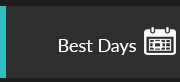
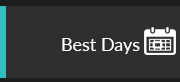
Interface Modifications/Improvements

Changed region(s): [[0.3056, 0.4634, 0.7778, 0.6829]]

diff --git a/src/main/java/ca/uwo/csd/cs2212/team13/InterfaceView.java b/src/main/java/ca/uwo/csd/cs2212/team13/InterfaceView.java
@@ -48,6 +48,7 @@ import java.awt.GridBagLayout;
 import java.awt.GridBagConstraints;
 import java.util.Date;
 import javax.swing.Icon;
+import java.awt.Point;
 
 
 
@@ -297,6 +298,8 @@ public class InterfaceView {
 		frame.getContentPane().add(MenuBar);
 
 		btnDailyDashboard = new JButton("");
+		btnDailyDashboard.setRolloverSelectedIcon(new ImageIcon("/Users/Step/courses/cs2212/team13/src/main/resources/DDselect.png"));
+		btnDailyDashboard.setRolloverIcon(new ImageIcon("/Users/Step/courses/cs2212/team13/src/main/resources/DDselect.png"));
 		btnDailyDashboard.setSelectedIcon(new ImageIcon("src/main/resources/DDselect.png"));
 		btnDailyDashboard.setIcon(new ImageIcon("src/main/resources/DailyDashboard.png"));
 		btnDailyDashboard.setMargin(new Insets(0, 0, 0, 0));
@@ -306,6 +309,8 @@ public class InterfaceView {
 		btnDailyDashboard.setSelected(true);
 
 		btnBestDays = new JButton("");
+		btnBestDays.setRolloverSelectedIcon(new ImageIcon("/Users/Step/courses/cs2212/team13/src/main/resources/BestDaysSelect.png"));
+		btnBestDays.setRolloverIcon(new ImageIcon("/Users/Step/courses/cs2212/team13/src/main/resources/BestDaysSelect.png"));
 		btnBestDays.setSelectedIcon(new ImageIcon("src/main/resources/BestDaysSelect.png"));
 		btnBestDays.setIcon(new ImageIcon("src/main/resources/BestDays.png"));
 		btnBestDays.setMargin(new Insets(0, 0, 0, 0));
@@ -314,6 +319,8 @@ public class InterfaceView {
 		MenuBar.add(btnBestDays);
 
 		btnDailyGoals = new JButton("");
+		btnDailyGoals.setRolloverSelectedIcon(new ImageIcon("/Users/Step/courses/cs2212/team13/src/main/resources/DailyGoalsSelected.png"));
+		btnDailyGoals.setRolloverIcon(new ImageIcon("/Users/Step/courses/cs2212/team13/src/main/resources/DailyGoalsSelected.png"));
 		btnDailyGoals.setSelectedIcon(new ImageIcon("src/main/resources/DailyGoalsSelected.png"));
 		btnDailyGoals.setIcon(new ImageIcon("src/main/resources/DailyGoals.png"));
 		btnDailyGoals.setMargin(new Insets(0, 0, 0, 0));
@@ -322,6 +329,8 @@ public class InterfaceView {
 		MenuBar.add(btnDailyGoals);
 
 		btnLifetimeTotals = new JButton("");
+		btnLifetimeTotals.setRolloverSelectedIcon(new ImageIcon("/Users/Step/courses/cs2212/team13/src/main/resources/lifetimeTotalsSelect.png"));
+		btnLifetimeTotals.setRolloverIcon(new ImageIcon("/Users/Step/courses/cs2212/team13/src/main/resources/lifetimeTotalsSelect.png"));
 		btnLifetimeTotals.setSelectedIcon(new ImageIcon("src/main/resources/lifetimeTotalsSelect.png"));
 		btnLifetimeTotals.setIcon(new ImageIcon("src/main/resources/lifetime totals.png"));
 		btnLifetimeTotals.setMargin(new Insets(0, 0, 0, 0));
@@ -330,6 +339,8 @@ public class InterfaceView {
 		MenuBar.add(btnLifetimeTotals);
 
 		btnAccolades = new JButton("");
+		btnAccolades.setRolloverSelectedIcon(new ImageIcon("/Users/Step/courses/cs2212/team13/src/main/resources/accoladeSelect.png"));
+		btnAccolades.setRolloverIcon(new ImageIcon("/Users/Step/courses/cs2212/team13/src/main/resources/accoladeSelect.png"));
 		btnAccolades.setSelectedIcon(new ImageIcon("src/main/resources/accoladeSelect.png"));
 		btnAccolades.setIcon(new ImageIcon("src/main/resources/accolades.png"));
 		btnAccolades.setMargin(new Insets(0, 0, 0, 0));
@@ -338,6 +349,8 @@ public class InterfaceView {
 		MenuBar.add(btnAccolades);
 
 		btnTimeSeries = new JButton("");
+		btnTimeSeries.setRolloverSelectedIcon(new ImageIcon("/Users/Step/courses/cs2212/team13/src/main/resources/timeseriesSelected.png"));
+		btnTimeSeries.setRolloverIcon(new ImageIcon("/Users/Step/courses/cs2212/team13/src/main/resources/timeseriesSelected.png"));
 		btnTimeSeries.setSelectedIcon(new ImageIcon("src/main/resources/timeseriesSelected.png"));
 		btnTimeSeries.setMargin(new Insets(0, 0, 0, 0));
 		btnTimeSeries.setIcon(new ImageIcon("src/main/resources/timeseriesbutton.png"));
@@ -346,6 +359,8 @@ public class InterfaceView {
 		MenuBar.add(btnTimeSeries);
 
 		btnHeartRateZones = new JButton("");
+		btnHeartRateZones.setRolloverSelectedIcon(new ImageIcon("/Users/Step/courses/cs2212/team13/src/main/resources/HRZ-select.png"));
+		btnHeartRateZones.setRolloverIcon(new ImageIcon("/Users/Step/courses/cs2212/team13/src/main/resources/HRZ-select.png"));
 		btnHeartRateZones.setSelectedIcon(new ImageIcon("src/main/resources/HRZ-select.png"));
 		btnHeartRateZones.setIcon(new ImageIcon("src/main/resources/HRZ.png"));
 		btnHeartRateZones.setMargin(new Insets(0, 0, 0, 0));
@@ -677,10 +692,18 @@ public class InterfaceView {
 		 * Layout customization, or "settings", menu
 		 */
 		JMenuBar menuBar = new JMenuBar();
-		menuBar.setBounds(40, 46, 70, 26);
+		menuBar.setBorder(null);
+		menuBar.setBorderPainted(false);
+		menuBar.setBackground(Color.BLACK);
+		menuBar.setBounds(40, 10, 50, 50);
 		panelDashboardView.add(menuBar);
 
-		JMenu mnNewMenu = new JMenu("Settings");
+		JMenu mnNewMenu = new JMenu("");
+		mnNewMenu.setBorder(null);
+		mnNewMenu.setBackground(Color.BLACK);
+		mnNewMenu.setIconTextGap(0);
+		//mnNewMenu.setHorizontalAlignment(SwingConstants.CENTER);
+		mnNewMenu.setIcon(new ImageIcon("/Users/Step/courses/cs2212/team13/src/main/resources/settings.png"));
 		menuBar.add(mnNewMenu);
 
 		radioSedMin = new JRadioButton("Sedentary Minutes");
@@ -945,7 +968,7 @@ public class InterfaceView {
 		UtilDateModel utilModel = new UtilDateModel(currentDate);
 		JDatePanelImpl datePanel = new JDatePanelImpl(utilModel);
 		datePicker = new JDatePickerImpl(datePanel);
-		datePicker.setBounds(278,107,163,26);
+		datePicker.setBounds(278,105,170,30);
 		datePicker.addActionListener(new ActionListener() {
 			public void actionPerformed(ActionEvent e) {
 				CalendarToAPI();
@@ -959,7 +982,7 @@ public class InterfaceView {
 		 */
 		JButton btnPrevDate = new JButton("Prev");
 		btnPrevDate.setOpaque(true);
-		btnPrevDate.setBounds(217, 108, 49, 25);
+		btnPrevDate.setBounds(217, 105, 50, 30);
 		panelDashboardView.add(btnPrevDate);
 		btnPrevDate.addActionListener(new ActionListener() {
 			public void actionPerformed(ActionEvent e) {
@@ -973,7 +996,7 @@ public class InterfaceView {
 		 */
 		JButton btnNextDate = new JButton("Next");
 		btnNextDate.setOpaque(true);
-		btnNextDate.setBounds(453, 108, 49, 25);
+		btnNextDate.setBounds(453, 105, 50, 30);
 		panelDashboardView.add(btnNextDate);
 		btnNextDate.addActionListener(new ActionListener() {
 			public void actionPerformed(ActionEvent e) {
@@ -1031,8 +1054,9 @@ public class InterfaceView {
 		/////////////////////////////////////////////////////////////////
 		/////KEEP THIS THO.//////////////////////////////////////////////
 
-		btnRefresh = new JButton("Refresh");
-		btnRefresh.setBounds(589, 46, 91, 29);
+		btnRefresh = new JButton("");
+		btnRefresh.setIcon(new ImageIcon("/Users/Step/courses/cs2212/team13/src/main/resources/refreshButton.png"));
+		btnRefresh.setBounds(630, 10, 50, 50);
 		panelDashboardView.add(btnRefresh);
 		repanel(radioCounter());
 		////////////////////////////////////////////////////////////////////
@@ -1175,75 +1199,60 @@ public class InterfaceView {
 	 * This method implements the Accolades screen.
 	 */
 	private void accoladesView() {
-		JLabel lblAccolades = new JLabel("Accolades");
-		lblAccolades.setHorizontalAlignment(SwingConstants.CENTER);
-		lblAccolades.setFont(new Font("Lucida Grande", Font.PLAIN, 22));
-		lblAccolades.setBounds(0, 0, 720, 32);
-		panelAccoladesView.add(lblAccolades);
-
-		JCheckBox chckbxTask = new JCheckBox("Task #1:");
-		chckbxTask.setFont(new Font("Lucida Grande", Font.PLAIN, 18));
-		chckbxTask.setBounds(10, 60, 235, 23);
-		panelAccoladesView.add(chckbxTask);
-
-		JCheckBox chckbxTask_1 = new JCheckBox("Task #2:");
-		chckbxTask_1.setFont(new Font("Lucida Grande", Font.PLAIN, 18));
-		chckbxTask_1.setBounds(10, 95, 294, 23);
-		panelAccoladesView.add(chckbxTask_1);
-
-		JCheckBox chckbxTask_2 = new JCheckBox("Task #3:");
-		chckbxTask_2.setFont(new Font("Lucida Grande", Font.PLAIN, 18));
-		chckbxTask_2.setBounds(10, 130, 294, 23);
-		panelAccoladesView.add(chckbxTask_2);
-
-		JCheckBox chckbxTask_3 = new JCheckBox("Task #4:");
-		chckbxTask_3.setFont(new Font("Lucida Grande", Font.PLAIN, 18));
-		chckbxTask_3.setBounds(10, 165, 294, 23);
-		panelAccoladesView.add(chckbxTask_3);
-
-		JCheckBox chckbxTask_4 = new JCheckBox("Task #5:");
-		chckbxTask_4.setFont(new Font("Lucida Grande", Font.PLAIN, 18));
-		chckbxTask_4.setBounds(10, 200, 294, 23);
-		panelAccoladesView.add(chckbxTask_4);
 
 		JLabel lblDscp1 = new JLabel("<description>");
+		lblDscp1.setForeground(Color.WHITE);
 		lblDscp1.setHorizontalAlignment(SwingConstants.TRAILING);
 		lblDscp1.setFont(new Font("Lucida Grande", Font.PLAIN, 18));
-		lblDscp1.setBounds(257, 60, 150, 23);
+		lblDscp1.setBounds(290, 103, 369, 23);
 		panelAccoladesView.add(lblDscp1);
 
 		JLabel lblDscp2 = new JLabel("<description>");
+		lblDscp2.setForeground(Color.WHITE);
 		lblDscp2.setHorizontalAlignment(SwingConstants.TRAILING);
 		lblDscp2.setFont(new Font("Lucida Grande", Font.PLAIN, 18));
-		lblDscp2.setBounds(257, 95, 150, 23);
+		lblDscp2.setBounds(290, 138, 369, 23);
 		panelAccoladesView.add(lblDscp2);
 
 		JLabel lblDscp3 = new JLabel("<description>");
+		lblDscp3.setForeground(Color.WHITE);
 		lblDscp3.setHorizontalAlignment(SwingConstants.TRAILING);
 		lblDscp3.setFont(new Font("Lucida Grande", Font.PLAIN, 18));
-		lblDscp3.setBounds(257, 130, 150, 23);
+		lblDscp3.setBounds(290, 173, 369, 23);
 		panelAccoladesView.add(lblDscp3);
 
 		JLabel lblDscp4 = new JLabel("<description>");
+		lblDscp4.setForeground(Color.WHITE);
 		lblDscp4.setHorizontalAlignment(SwingConstants.TRAILING);
 		lblDscp4.setFont(new Font("Lucida Grande", Font.PLAIN, 18));
-		lblDscp4.setBounds(257, 165, 150, 23);
+		lblDscp4.setBounds(290, 208, 369, 23);
 		panelAccoladesView.add(lblDscp4);
 
 		JLabel lblDscp5 = new JLabel("<description>");
+		lblDscp5.setForeground(Color.WHITE);
 		lblDscp5.setHorizontalAlignment(SwingConstants.TRAILING);
 		lblDscp5.setFont(new Font("Lucida Grande", Font.PLAIN, 18));
-		lblDscp5.setBounds(257, 200, 150, 23);
+		lblDscp5.setBounds(290, 243, 369, 23);
 		panelAccoladesView.add(lblDscp5);
 
 		JLabel lblLastUpdated = new JLabel("Last Updated:");
+		lblLastUpdated.setForeground(Color.WHITE);
 		lblLastUpdated.setBounds(410, 540, 90, 16);
 		panelAccoladesView.add(lblLastUpdated);
 
 		lblLastUpdatedAccolades = new JLabel();
+		lblLastUpdatedAccolades.setForeground(Color.WHITE);
 		lblLastUpdatedAccolades.setBounds(486, 540, 222, 16);
 		lblLastUpdatedAccolades.setHorizontalAlignment(SwingConstants.TRAILING);
 		panelAccoladesView.add(lblLastUpdatedAccolades);
+		
+		/**
+		 * Background Image Implementation
+		 */
+		JLabel lblPic = new JLabel(new ImageIcon("/Users/Step/courses/cs2212/team13/src/main/resources/ACCdash.png"));
+		lblPic.setBounds(0, 0, 720, 574);
+		panelAccoladesView.add(lblPic);
+	
 
 	}
 
@@ -1325,83 +1334,95 @@ public class InterfaceView {
 	 * This method implements the Daily Goals screen.
 	 */
 	private void dailygoalsView() {
-		JLabel lblDailyGoals = new JLabel("Daily Goals");
-		lblDailyGoals.setForeground(Color.BLACK);
-		lblDailyGoals.setBackground(Color.GRAY);
-		lblDailyGoals.setHorizontalAlignment(SwingConstants.CENTER);
-		lblDailyGoals.setFont(new Font("Lucida Grande", Font.PLAIN, 22));
-		lblDailyGoals.setBounds(0, 0, 720, 28);
-		panelDailyGoalsView.add(lblDailyGoals);
-
-		JLabel lblActiveMin = new JLabel("Active Minutes:");
-		lblActiveMin.setBounds(16, 160, 120, 16);
-		panelDailyGoalsView.add(lblActiveMin);
-
-		JLabel lblSteps = new JLabel("Steps:");
-		lblSteps.setBounds(16, 52, 61, 16);
-		panelDailyGoalsView.add(lblSteps);
-
-		JLabel lblDistance = new JLabel("Distance:");
-		lblDistance.setBounds(16, 80, 61, 16);
-		panelDailyGoalsView.add(lblDistance);
-
-		JLabel lblCalories = new JLabel("Calories:");
-		lblCalories.setBounds(16, 108, 61, 16);
-		panelDailyGoalsView.add(lblCalories);
-
-		JLabel lblFloors = new JLabel("Floors:");
-		lblFloors.setBounds(16, 136, 61, 16);
-		panelDailyGoalsView.add(lblFloors);
 
 		lblActiveMinGoal = new JLabel();
-		lblActiveMinGoal.setBounds(150, 160, 61, 16);
+		lblActiveMinGoal.setFont(new Font("Lucida Grande", Font.PLAIN, 28));
+		lblActiveMinGoal.setHorizontalAlignment(SwingConstants.CENTER);
+		lblActiveMinGoal.setForeground(Color.WHITE);
+		lblActiveMinGoal.setBounds(325, 454, 232, 46);
 
 		panelDailyGoalsView.add(lblActiveMinGoal);
 
 		lblStepsGoal = new JLabel();
-		lblStepsGoal.setBounds(150, 52, 61, 16);
+		lblStepsGoal.setFont(new Font("Lucida Grande", Font.PLAIN, 28));
+		lblStepsGoal.setHorizontalAlignment(SwingConstants.CENTER);
+		lblStepsGoal.setForeground(Color.WHITE);
+		lblStepsGoal.setBounds(325, 317, 232, 46);
 		panelDailyGoalsView.add(lblStepsGoal);
 
 		lblDistanceGoal = new JLabel();
-		lblDistanceGoal.setBounds(150, 80, 61, 16);
+		lblDistanceGoal.setFont(new Font("Lucida Grande", Font.PLAIN, 28));
+		lblDistanceGoal.setHorizontalAlignment(SwingConstants.CENTER);
+		lblDistanceGoal.setForeground(Color.WHITE);
+		lblDistanceGoal.setBounds(325, 180, 232, 46);
 		panelDailyGoalsView.add(lblDistanceGoal);
 
 		lblCaloriesGoal = new JLabel();
-		lblCaloriesGoal.setBounds(150, 108, 61, 16);
+		lblCaloriesGoal.setFont(new Font("Lucida Grande", Font.PLAIN, 28));
+		lblCaloriesGoal.setHorizontalAlignment(SwingConstants.CENTER);
+		lblCaloriesGoal.setForeground(Color.WHITE);
+		lblCaloriesGoal.setBounds(325, 385, 232, 46);
 		panelDailyGoalsView.add(lblCaloriesGoal);
 
 		lblFloorsGoal = new JLabel();
-		lblFloorsGoal.setBounds(150, 136, 61, 16);
+		lblFloorsGoal.setFont(new Font("Lucida Grande", Font.PLAIN, 28));
+		lblFloorsGoal.setHorizontalAlignment(SwingConstants.CENTER);
+		lblFloorsGoal.setForeground(Color.WHITE);
+		lblFloorsGoal.setBounds(325, 248, 232, 46);
 		panelDailyGoalsView.add(lblFloorsGoal);
 
 		lblStepsCompare = new JLabel();
-		lblStepsCompare.setBounds(336, 52, 61, 16);
+		lblStepsCompare.setFont(new Font("Lucida Grande", Font.PLAIN, 24));
+		lblStepsCompare.setHorizontalAlignment(SwingConstants.CENTER);
+		lblStepsCompare.setForeground(Color.WHITE);
+		lblStepsCompare.setBounds(563, 317, 96, 46);
 		panelDailyGoalsView.add(lblStepsCompare);
 
 		lblDistanceCompare = new JLabel();
-		lblDistanceCompare.setBounds(336, 80, 61, 16);
+		lblDistanceCompare.setFont(new Font("Lucida Grande", Font.PLAIN, 24));
+		lblDistanceCompare.setHorizontalAlignment(SwingConstants.CENTER);
+		lblDistanceCompare.setForeground(Color.WHITE);
+		lblDistanceCompare.setBounds(563, 180, 96, 46);
 		panelDailyGoalsView.add(lblDistanceCompare);
 
 		lblCaloriesCompare = new JLabel();
-		lblCaloriesCompare.setBounds(336, 108, 61, 16);
+		lblCaloriesCompare.setFont(new Font("Lucida Grande", Font.PLAIN, 24));
+		lblCaloriesCompare.setHorizontalAlignment(SwingConstants.CENTER);
+		lblCaloriesCompare.setForeground(Color.WHITE);
+		lblCaloriesCompare.setBounds(563, 385, 96, 46);
 		panelDailyGoalsView.add(lblCaloriesCompare);
 
 		lblFloorsCompare = new JLabel();
-		lblFloorsCompare.setBounds(336, 136, 61, 16);
+		lblFloorsCompare.setFont(new Font("Lucida Grande", Font.PLAIN, 24));
+		lblFloorsCompare.setHorizontalAlignment(SwingConstants.CENTER);
+		lblFloorsCompare.setForeground(Color.WHITE);
+		lblFloorsCompare.setBounds(563, 248, 96, 46);
 		panelDailyGoalsView.add(lblFloorsCompare);
 
 		lblActiveMinCompare = new JLabel();
-		lblActiveMinCompare.setBounds(336, 160, 61, 16);
+		lblActiveMinCompare.setFont(new Font("Lucida Grande", Font.PLAIN, 24));
+		lblActiveMinCompare.setHorizontalAlignment(SwingConstants.CENTER);
+		lblActiveMinCompare.setForeground(Color.WHITE);
+		lblActiveMinCompare.setBounds(563, 454, 96, 46);
 		panelDailyGoalsView.add(lblActiveMinCompare);
 
 		JLabel lblLastUpdated = new JLabel("Last Updated:");
+		lblLastUpdated.setForeground(Color.WHITE);
 		lblLastUpdated.setBounds(410, 540, 90, 16);
 		panelDailyGoalsView.add(lblLastUpdated);
 
 		lblLastUpdatedGoals = new JLabel();
+		lblLastUpdatedGoals.setForeground(Color.WHITE);
 		lblLastUpdatedGoals.setBounds(486, 540, 222, 16);
 		lblLastUpdatedGoals.setHorizontalAlignment(SwingConstants.TRAILING);
 		panelDailyGoalsView.add(lblLastUpdatedGoals);
+		
+		/**
+		 * Background Image Implementation
+		 */
+		JLabel lblPic = new JLabel(new ImageIcon("/Users/Step/courses/cs2212/team13/src/main/resources/DGdash.png"));
+		lblPic.setBounds(0, 0, 720, 574);
+		panelDailyGoalsView.add(lblPic);
 	}
 
 	/**
